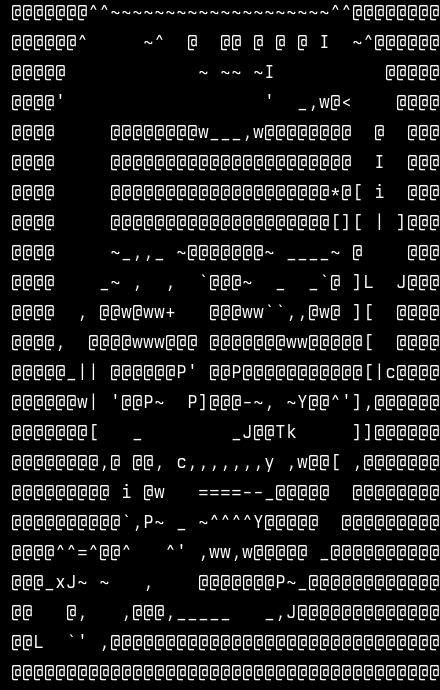
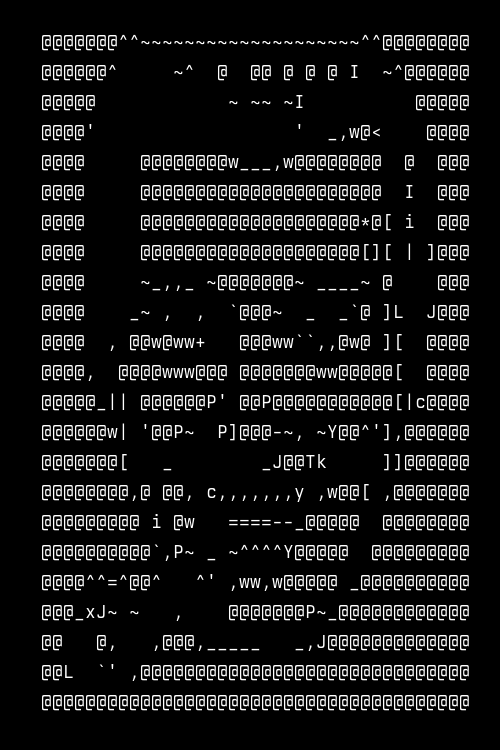
bobdobbs image

diff --git a/scripts/gen-bobdobbs-png.py b/scripts/gen-bobdobbs-png.py
@@ -1,0 +1,77 @@
+#!/usr/bin/env python3
+"""Render bobdobbs.txt as a PNG with Berkeley Mono, black background, equal padding."""
+
+from PIL import Image, ImageDraw, ImageFont
+import os
+import sys
+
+# Resolve paths relative to the repo root
+REPO_DIR = os.environ.get("REPO_DIR", os.path.dirname(os.path.dirname(os.path.abspath(__file__))))
+TEXT_PATH = os.path.join(REPO_DIR, "dotfiles", "neofetch", "bobdobbs.txt")
+OUT_PATH  = os.path.join(REPO_DIR, "dotfiles", "neofetch", "bobdobbs.png")
+
+FONT_PATH = "/usr/share/fonts/TTF/BerkeleyMono-Regular.ttf"
+FONT_SIZE = 18
+LINE_SPACING = 1.4
+PADDING = 30
+
+# Read the ASCII art
+with open(TEXT_PATH) as f:
+    lines = f.readlines()
+
+# Strip trailing newlines only — preserve all spaces in the art
+lines = [l.rstrip('\n') for l in lines]
+
+# Load font
+font = ImageFont.truetype(FONT_PATH, FONT_SIZE)
+
+# Accurate line height from FreeType face
+try:
+    ft_height = font.font.height
+    ft_scale = font.font.size / font.font.units_per_EM
+    cell_height = ft_height * ft_scale
+except Exception:
+    cell_height = font.size * 1.2
+
+line_height = int(cell_height * LINE_SPACING)
+
+# Measure max text width
+tmp_img = Image.new("RGB", (1, 1))
+tmp_draw = ImageDraw.Draw(tmp_img)
+
+max_text_w = 0
+for line in lines:
+    bbox = tmp_draw.textbbox((0, 0), line, font=font)
+    w = bbox[2] - bbox[0]
+    if w > max_text_w:
+        max_text_w = w
+
+text_h = line_height * len(lines)
+print(f"Text block: {max_text_w}x{text_h} (cols x rows: {max(len(l) for l in lines)}x{len(lines)})")
+
+# Equal padding on all sides
+img_w = int(max_text_w) + 2 * PADDING
+img_h = int(text_h) + 2 * PADDING
+
+# Force portrait: if still wider than tall, add extra vertical padding
+if img_w >= img_h:
+    extra = (img_w - img_h) + 40
+    img_h += extra
+    top_pad = PADDING + extra // 2
+else:
+    top_pad = PADDING
+
+print(f"Image: {img_w}x{img_h}")
+
+# Create black image
+img = Image.new("RGB", (img_w, img_h), "#000000")
+draw = ImageDraw.Draw(img)
+
+# Draw each line left-aligned at PADDING (equal left/right margins)
+y = top_pad
+for line in lines:
+    draw.text((PADDING, y), line, font=font, fill="#FFFFFF")
+    y += line_height
+
+img.save(OUT_PATH, "PNG")
+print(f"Saved {img_w}x{img_h} → {OUT_PATH}")
